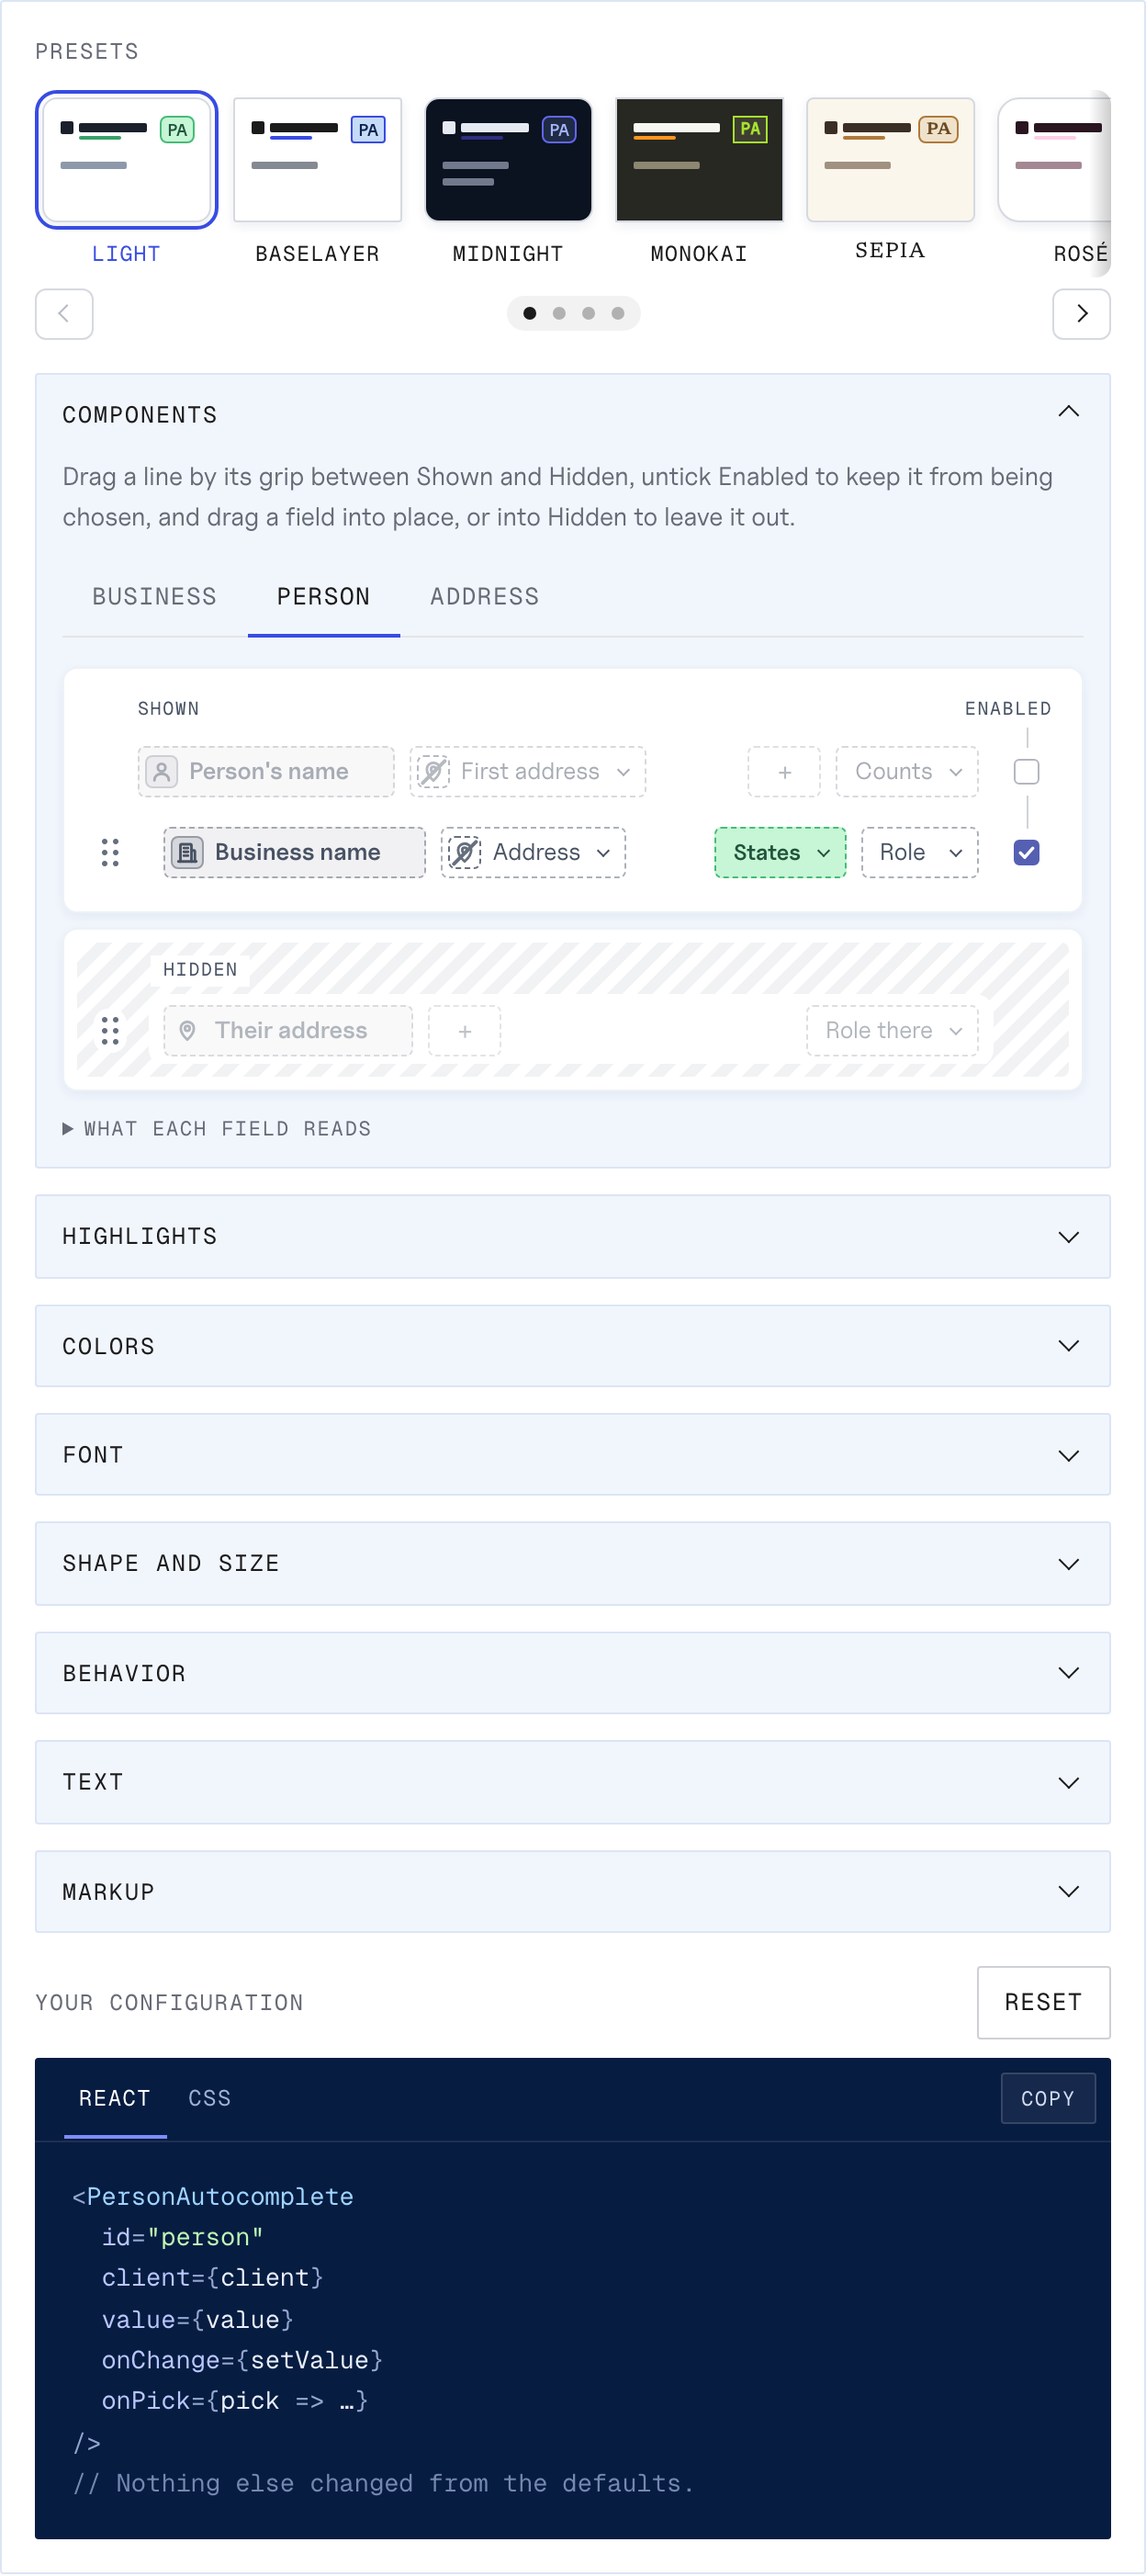
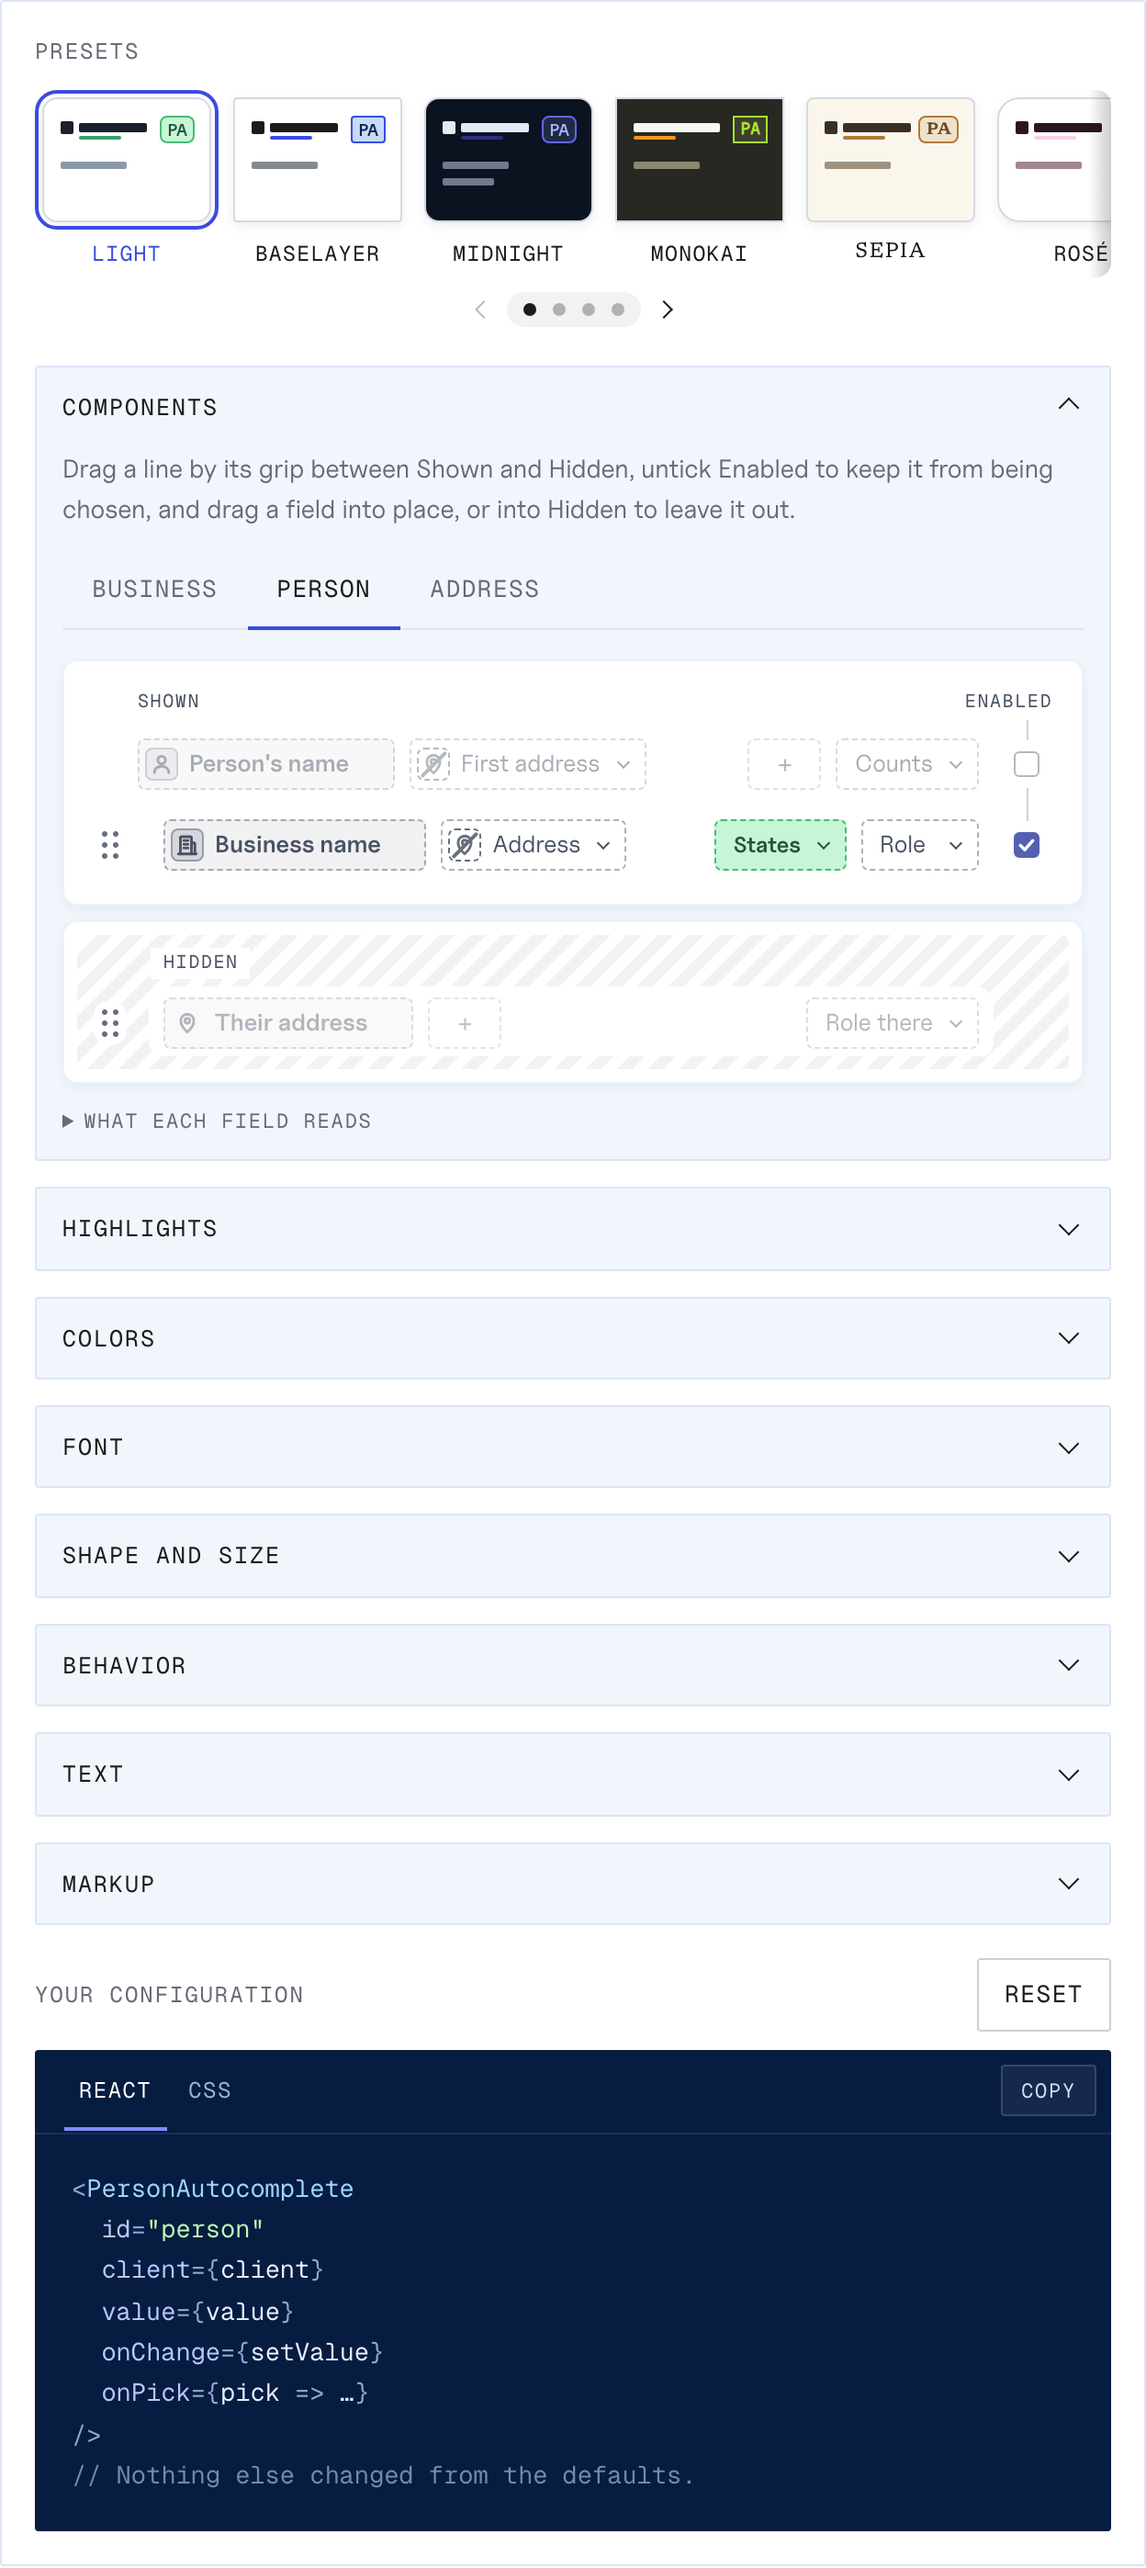
Put the presets' page buttons beside the dots, as arrows alone
The page buttons sat at the row's far sides in bordered boxes. They now
sit right beside the page control, the three centred as one, and each is
its drawn arrow alone in the text's ink, faint when disabled at its end,
in a 24px target with a ring from the keyboard only. Where the dots do
not fit, the page as text sits between them the same way. The demo
guide says so, and the styling panel is retaken.

diff --git a/tests/browser/presets-carousel.test.tsx b/tests/browser/presets-carousel.test.tsx
@@ -290,7 +290,7 @@ describe("the presets' carousel", () => {
     return found;
   }
 
-  it("puts the page buttons at its far sides, a dot for each page between them, the current one marked", async () => {
+  it("puts the page buttons right beside its dots, the three centred as one, a dot for each page, the current one marked", async () => {
     const { host, scroller, earlier, later, done } = mount(560);
     try {
       const dots = () => [
@@ -299,8 +299,22 @@ describe("the presets' carousel", () => {
       const pages = await stops(scroller, later);
       expect(dots()).toHaveLength(pages.length);
       const nav = host.querySelector(".presets-nav")!.getBoundingClientRect();
-      expect(earlier().getBoundingClientRect().left).toBeCloseTo(nav.left, 0);
-      expect(later().getBoundingClientRect().right).toBeCloseTo(nav.right, 0);
+      const capsule = host
+        .querySelector(".presets-dots")!
+        .getBoundingClientRect();
+      const back = earlier().getBoundingClientRect();
+      const on = later().getBoundingClientRect();
+      expect((back.left + on.right) / 2).toBeCloseTo(
+        (nav.left + nav.right) / 2,
+        0,
+      );
+      // Each arrow about a dot's gap from the capsule: 9px between dots.
+      const arrow = (button: HTMLButtonElement) =>
+        button.querySelector(".presets-chevron")!.getBoundingClientRect();
+      expect(capsule.left - arrow(earlier()).right).toBeGreaterThanOrEqual(6);
+      expect(capsule.left - arrow(earlier()).right).toBeLessThanOrEqual(12);
+      expect(arrow(later()).left - capsule.right).toBeGreaterThanOrEqual(6);
+      expect(arrow(later()).left - capsule.right).toBeLessThanOrEqual(12);
       for (const dot of dots()) {
         const box = dot.getBoundingClientRect();
         expect(box.left).toBeGreaterThan(
@@ -409,11 +423,19 @@ describe("the presets' carousel", () => {
     }
   });
 
-  it("draws each page button's arrow in the button's ink, whatever the font has", () => {
-    const { earlier, later, done } = mount(560);
+  it("draws each page button as its arrow alone, in the button's ink, faint at its end, whatever the font has", async () => {
+    const { host, earlier, later, done } = mount(560);
     try {
       for (const button of [earlier(), later()]) {
         expect(button.textContent).toBe("");
+        // No box: no border, fill or shadow, but a finger's target.
+        const chrome = getComputedStyle(button);
+        expect(chrome.borderTopWidth).toBe("0px");
+        expect(chrome.backgroundColor).toBe("rgba(0, 0, 0, 0)");
+        expect(chrome.boxShadow).toBe("none");
+        const target = button.getBoundingClientRect();
+        expect(target.width).toBeGreaterThanOrEqual(24);
+        expect(target.height).toBeGreaterThanOrEqual(24);
         const arrow = button.querySelector<HTMLElement>(".presets-chevron")!;
         const box = arrow.getBoundingClientRect();
         expect(box.width).toBeGreaterThanOrEqual(6);
@@ -438,12 +460,31 @@ describe("the presets' carousel", () => {
           getComputedStyle(button.querySelector(".presets-chevron")!).transform,
         );
       expect(turn(earlier()).a).toBeCloseTo(-turn(later()).a, 3);
+      // At the start, Earlier is disabled and faint, Later in full ink.
+      const alpha = (button: HTMLButtonElement) => {
+        const color = getComputedStyle(button).color;
+        const parts = color.match(/[\d.]+/g)!.map(Number);
+        return parts.length > 3 ? parts.at(-1)! : 1;
+      };
+      expect(earlier().disabled).toBe(true);
+      expect(alpha(earlier())).toBeLessThanOrEqual(0.4);
+      expect(alpha(later())).toBe(1);
+      // A ring from the keyboard only.
+      await userEvent.click(later());
+      expect(getComputedStyle(later()).outlineStyle).toBe("none");
+      const dots = host.querySelectorAll<HTMLButtonElement>(
+        ".presets-dots button",
+      );
+      dots[dots.length - 1]!.focus();
+      await userEvent.keyboard("{Tab}");
+      expect(document.activeElement).toBe(later());
+      expect(getComputedStyle(later()).outlineStyle).toBe("solid");
     } finally {
       done();
     }
   });
 
-  it("fits its dots between the page buttons at every width it draws them", async () => {
+  it("keeps the page buttons beside its dots or its page, the three centred, at every width", async () => {
     let dotted = 0;
     for (let width = 200; width <= 600; width += 10) {
       const { host, earlier, later, done } = mount(width);
@@ -454,18 +495,21 @@ describe("the presets' carousel", () => {
         )!;
         if (between.matches(".presets-dots")) dotted++;
         const box = between.getBoundingClientRect();
-        expect(box.left, `${width}px`).toBeGreaterThanOrEqual(
-          earlier().getBoundingClientRect().right,
-        );
-        expect(box.right, `${width}px`).toBeLessThanOrEqual(
-          later().getBoundingClientRect().left,
-        );
-        // And nothing pushed out past the row's end.
+        const back = earlier().getBoundingClientRect();
+        const on = later().getBoundingClientRect();
+        // Beside it on each side, with no more than the group's gap.
+        expect(box.left - back.right, `${width}px`).toBeGreaterThanOrEqual(0);
+        expect(box.left - back.right, `${width}px`).toBeLessThanOrEqual(4);
+        expect(on.left - box.right, `${width}px`).toBeGreaterThanOrEqual(0);
+        expect(on.left - box.right, `${width}px`).toBeLessThanOrEqual(4);
+        // Centred, and nothing pushed out past the row's ends.
         const nav = host.querySelector(".presets-nav")!.getBoundingClientRect();
         expect(
-          later().getBoundingClientRect().right,
+          Math.abs((back.left + on.right) / 2 - (nav.left + nav.right) / 2),
           `${width}px`,
-        ).toBeLessThanOrEqual(nav.right + 0.5);
+        ).toBeLessThanOrEqual(1);
+        expect(back.left, `${width}px`).toBeGreaterThanOrEqual(nav.left - 0.5);
+        expect(on.right, `${width}px`).toBeLessThanOrEqual(nav.right + 0.5);
       } finally {
         done();
       }

diff --git a/site/demo/demo.css b/site/demo/demo.css
@@ -2560,14 +2560,14 @@
   display: none;
 }
 
-/* The page buttons at the far sides, and between them a page control: a
-   small round dot for each page in a faint capsule, each dot a finger's
-   height to press. */
+/* A page control, a small round dot for each page in a faint capsule, with
+   the page buttons right beside it, the three centred as one: each button
+   its arrow alone, faint at its end, in a finger's target. */
 .presets-nav {
   display: flex;
   align-items: center;
-  justify-content: space-between;
-  gap: 8px;
+  justify-content: center;
+  gap: 2px;
   margin: 6px 0 18px;
 }
 
@@ -2575,23 +2575,27 @@
   display: grid;
   flex: none;
   place-items: center;
-  width: 32px;
-  height: 28px;
+  width: 24px;
+  height: 24px;
   padding: 0;
-  background: var(--paper);
-  border: 1px solid #d6d9e0;
-  border-radius: 6px;
+  background: none;
+  border: 0;
+  border-radius: 50%;
   color: var(--ink);
   cursor: pointer;
 }
 
-.presets-nav > button:hover:not(:disabled) {
-  border-color: var(--ink-soft);
+.presets-nav > button:disabled {
+  color: color-mix(in srgb, var(--ink) 30%, transparent);
+  cursor: default;
 }
 
-.presets-nav > button:disabled {
-  color: #b8bcc6;
-  cursor: default;
+.presets-nav > button:focus {
+  outline: none;
+}
+
+.presets-nav > button:focus-visible {
+  outline: 2px solid var(--blue);
 }
 
 /* Drawn rather than typed, so no font can leave it out. */

diff --git a/site/demo/PresetCarousel.tsx b/site/demo/PresetCarousel.tsx
@@ -27,7 +27,7 @@ import {
  */
 const DOT_PITCH = 7 + 9;
 const CAPSULE = 2 * 9 - 9;
-const ARROWS = 2 * 32 + 16;
+const ARROWS = 2 * 24 + 2 * 2;
 
 /**
  * Where each page of the row starts: the first page at the start, each next

diff --git a/docs/demo.md b/docs/demo.md
@@ -253,21 +253,21 @@ and the people (officers and agents) are not. Place neither and no `include`
 is sent, since the autocomplete service refuses an empty one, so its default,
 people and addresses, comes back all the same, only not drawn.
 
-First come the presets, twenty looks in a carousel that scrolls sideways:
-swipe or scroll to browse it, or turn a page with the buttons at its ends or
-the dots between them, and a shade at an edge says there is more; the arrow
-keys pick the next preset or the one before. Light comes first, the default
-with matched ink in green, then Baselayer, Midnight, Monokai, Sepia and Rosé,
-then fourteen more. Each is drawn as a sign of itself in its colors and
-corners: a title with its match marked under it, a flag, a bar for each line
-its row draws below the title on the search the form is on, and a square
-before the title where the name carries an icon. A preset sets the colors,
-how a match is marked, the font, the corners and the shadow, the line height
-and the weights, and each search's row: where its fields sit, the lines it
-lists and which can be chosen, and its icons. The menu's width, the list's
-height and its stacking are the host's layout, and with behavior and text
-they stay as you set them; while anything a preset sets is changed, the
-presets read **Custom**. Then every knob the styled component has,
+First come the presets, twenty looks in a carousel that scrolls sideways: swipe
+or scroll to browse it, or turn a page with the arrows either side of its page
+dots, or with a dot, and a shade at an edge says there is more; the arrow keys
+pick the next preset or the one before. Light comes first, the default with
+matched ink in green, then Baselayer, Midnight, Monokai, Sepia and Rosé, then
+fourteen more. Each is drawn as a sign of itself in its colors and corners: a
+title with its match marked under it, a flag, a bar for each line its row draws
+below the title on the search the form is on, and a square before the title
+where the name carries an icon. A preset sets the colors, how a match is marked,
+the font, the corners and the shadow, the line height and the weights, and each
+search's row: where its fields sit, the lines it lists and which can be chosen,
+and its icons. The menu's width, the list's height and its stacking are the
+host's layout, and with behavior and text they stay as you set them; while
+anything a preset sets is changed, the presets read **Custom**. Then every knob
+the styled component has,
 in sections that start folded: the components a row shows, drawn
 as the row itself (the name, which always shows, then each line's two corners,
 a field and the badge pinned to its inner side; each place drawn as the field
